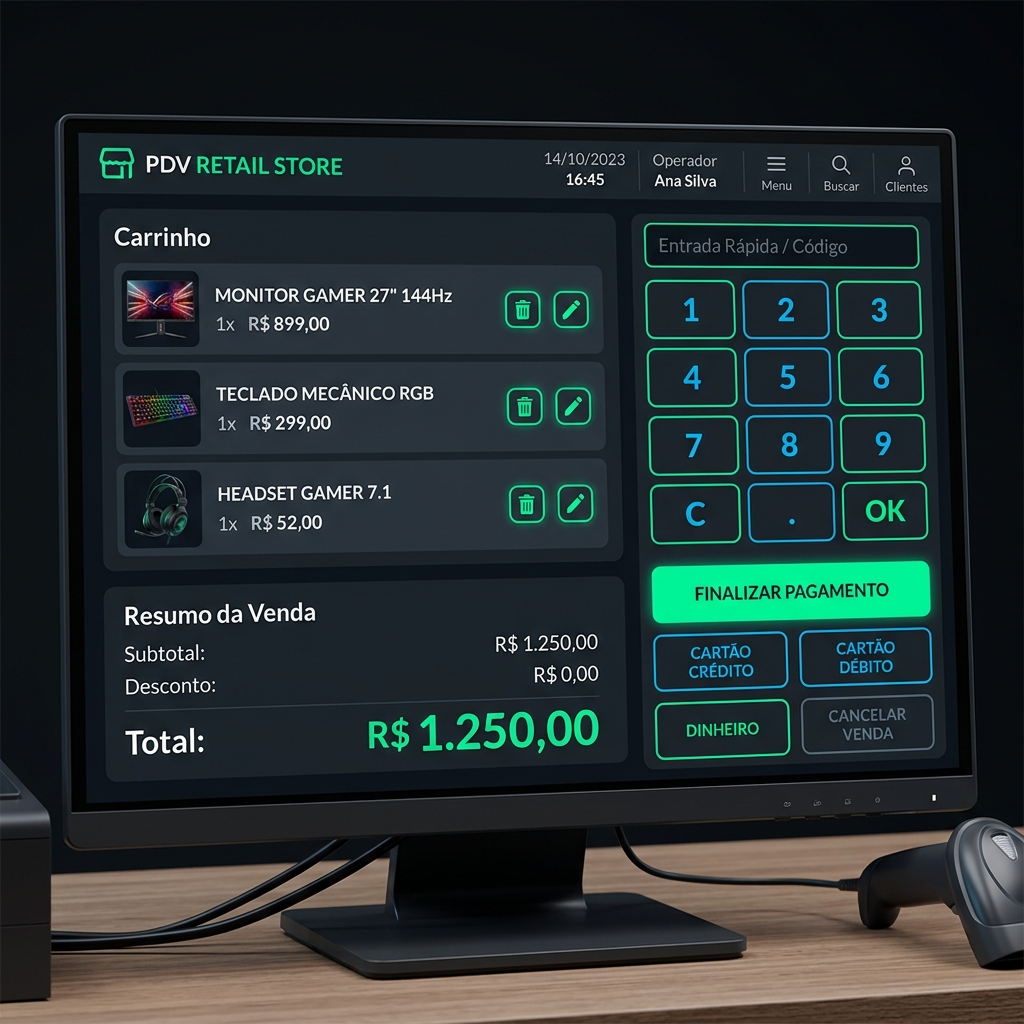
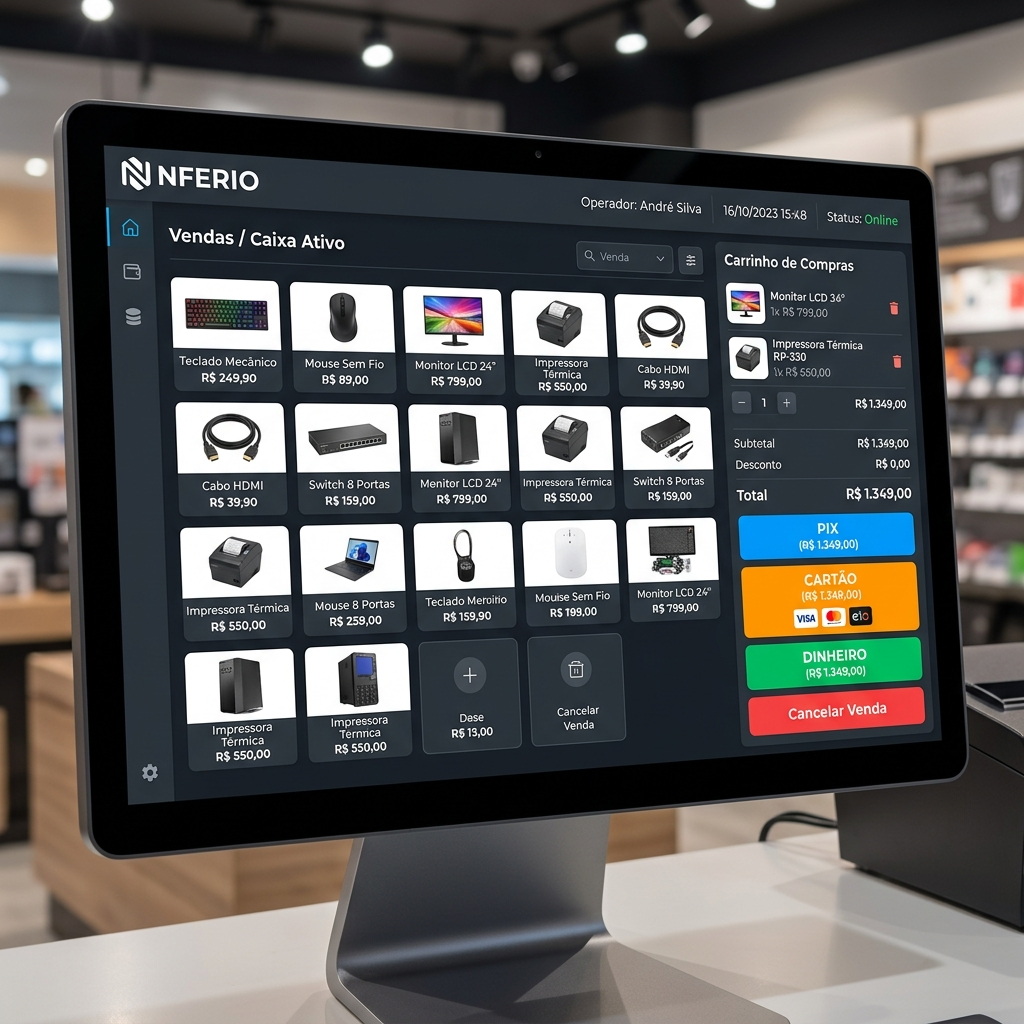
ajustesssss

diff --git a/frontend/src/pages/LandingPage.tsx b/frontend/src/pages/LandingPage.tsx
@@ -92,62 +92,61 @@ const LandingPage: React.FC = () => {
 
         <div className="market-grid" style={{ display: 'grid', gap: '4rem' }}>
           
-          {/* Feature 1: PDV */}
+          {/* Feature 1: Dashboard */}
           <div className="market-item" style={{ display: 'grid', gridTemplateColumns: '1.2fr 0.8fr', gap: '4rem', alignItems: 'center' }}>
             <div className="glass-panel" style={{ padding: '0.5rem', borderRadius: '24px', overflow: 'hidden', boxShadow: '0 25px 50px -12px rgba(0,0,0,0.5)' }}>
-              <img src="/previews/pdv.png" alt="PDV Moderno" style={{ width: '100%', borderRadius: '20px', display: 'block' }} />
+              <img src="/previews/dashboard.png" alt="Dashboard NFERIO" style={{ width: '100%', borderRadius: '20px', display: 'block' }} />
             </div>
             <div>
-              <div style={{ color: 'var(--accent-primary)', fontWeight: '700', marginBottom: '1rem', letterSpacing: '0.1em' }}>FRENTE DE CAIXA</div>
-              <h3 style={{ fontSize: '2.5rem', fontWeight: '800', marginBottom: '1.5rem' }}>PDV Blindado e Veloz</h3>
+              <div style={{ color: 'var(--accent-primary)', fontWeight: '700', marginBottom: '1rem', letterSpacing: '0.1em' }}>GESTÃO CENTRALIZADA</div>
+              <h3 style={{ fontSize: '2.5rem', fontWeight: '800', marginBottom: '1.5rem' }}>Painel de Controle Inteligente</h3>
               <p style={{ color: '#94a3b8', fontSize: '1.1rem', lineHeight: '1.8', marginBottom: '2rem' }}>
-                Venda em segundos com nossa interface otimizada. Sincronização em tempo real com estoque e financeiro, 
-                suporte a múltiplas formas de pagamento e emissão instantânea de NFC-e.
+                Monitore a saúde fiscal e financeira da sua empresa em tempo real. Com sensores integrados à ACBrLib e telemetria de servidor, 
+                você nunca fica no escuro.
               </p>
               <ul style={{ listStyle: 'none', padding: 0, display: 'flex', flexDirection: 'column', gap: '1rem', color: '#cbd5e1' }}>
-                <li style={{ display: 'flex', alignItems: 'center', gap: '12px' }}>✅ Teclas de atalho para produtividade</li>
-                <li style={{ display: 'flex', alignItems: 'center', gap: '12px' }}>✅ Funcionamento Offline com Sincronia</li>
-                <li style={{ display: 'flex', alignItems: 'center', gap: '12px' }}>✅ Integração total com balanças e scanners</li>
+                <li style={{ display: 'flex', alignItems: 'center', gap: '12px' }}>✅ Status do Motor Fiscal em tempo real</li>
+                <li style={{ display: 'flex', alignItems: 'center', gap: '12px' }}>✅ Telemetria de servidor Oracle Cloud</li>
+                <li style={{ display: 'flex', alignItems: 'center', gap: '12px' }}>✅ Resumo de faturamento e impostos automático</li>
               </ul>
             </div>
           </div>
 
-          {/* Feature 2: Clientes (Inverted) */}
+          {/* Feature 2: PDV (Inverted) */}
           <div className="market-item" style={{ display: 'grid', gridTemplateColumns: '0.8fr 1.2fr', gap: '4rem', alignItems: 'center' }}>
             <div>
-              <div style={{ color: '#10b981', fontWeight: '700', marginBottom: '1rem', letterSpacing: '0.1em' }}>CRM & GESTÃO</div>
-              <h3 style={{ fontSize: '2.5rem', fontWeight: '800', marginBottom: '1.5rem' }}>Cadastro de Clientes Inteligente</h3>
+              <div style={{ color: '#10b981', fontWeight: '700', marginBottom: '1rem', letterSpacing: '0.1em' }}>FRENTE DE CAIXA</div>
+              <h3 style={{ fontSize: '2.5rem', fontWeight: '800', marginBottom: '1.5rem' }}>PDV Ágil e Intuitivo</h3>
               <p style={{ color: '#94a3b8', fontSize: '1.1rem', lineHeight: '1.8', marginBottom: '2rem' }}>
-                Conheça seu cliente de verdade. Histórico de compras, limites de crédito automatizados e 
-                integração com consulta de CNPJ/CPF direto da nuvem.
+                Interface desenhada para alta performance no varejo. Emita NFC-e em segundos, gerencie múltiplos terminais 
+                e aceite todas as formas de pagamento com facilidade.
               </p>
               <ul style={{ listStyle: 'none', padding: 0, display: 'flex', flexDirection: 'column', gap: '1rem', color: '#cbd5e1' }}>
-                <li style={{ display: 'flex', alignItems: 'center', gap: '12px' }}>✅ Segmentação por perfil de compra</li>
-                <li style={{ display: 'flex', alignItems: 'center', gap: '12px' }}>✅ Controle de inadimplência em tempo real</li>
-                <li style={{ display: 'flex', alignItems: 'center', gap: '12px' }}>✅ Exportação de relatórios para marketing</li>
+                <li style={{ display: 'flex', alignItems: 'center', gap: '12px' }}>✅ Atalhos de teclado para vendas rápidas</li>
+                <li style={{ display: 'flex', alignItems: 'center', gap: '12px' }}>✅ Sincronização instantânea de estoque</li>
+                <li style={{ display: 'flex', alignItems: 'center', gap: '12px' }}>✅ Suporte a leitores de código de barras</li>
               </ul>
             </div>
             <div className="glass-panel" style={{ padding: '0.5rem', borderRadius: '24px', overflow: 'hidden', boxShadow: '0 25px 50px -12px rgba(0,0,0,0.5)' }}>
-              <img src="/previews/customers.png" alt="Gestão de Clientes" style={{ width: '100%', borderRadius: '20px', display: 'block' }} />
+              <img src="/previews/pdv.png" alt="PDV NFERIO" style={{ width: '100%', borderRadius: '20px', display: 'block' }} />
             </div>
           </div>
 
-          {/* Feature 3: Produtos */}
+          {/* Feature 3: Financeiro */}
           <div className="market-item" style={{ display: 'grid', gridTemplateColumns: '1.2fr 0.8fr', gap: '4rem', alignItems: 'center' }}>
             <div className="glass-panel" style={{ padding: '0.5rem', borderRadius: '24px', overflow: 'hidden', boxShadow: '0 25px 50px -12px rgba(0,0,0,0.5)' }}>
-              <img src="/previews/products.png" alt="Catálogo de Produtos" style={{ width: '100%', borderRadius: '20px', display: 'block' }} />
+              <img src="/previews/finance.png" alt="Financeiro NFERIO" style={{ width: '100%', borderRadius: '20px', display: 'block' }} />
             </div>
             <div>
-              <div style={{ color: '#f59e0b', fontWeight: '700', marginBottom: '1rem', letterSpacing: '0.1em' }}>ESTOQUE & COMPRAS</div>
-              <h3 style={{ fontSize: '2.5rem', fontWeight: '800', marginBottom: '1.5rem' }}>Estoque Global e Dinâmico</h3>
+              <div style={{ color: '#f59e0b', fontWeight: '700', marginBottom: '1rem', letterSpacing: '0.1em' }}>FINANCEIRO INTEGRADO</div>
+              <h3 style={{ fontSize: '2.5rem', fontWeight: '800', marginBottom: '1.5rem' }}>Controle de Fluxo de Caixa</h3>
               <p style={{ color: '#94a3b8', fontSize: '1.1rem', lineHeight: '1.8', marginBottom: '2rem' }}>
-                Nunca perca uma venda por falta de produto. Controle de grades, números de série, validade 
-                e sugestão automática de compras baseada no giro de estoque.
+                Gestão completa de contas a pagar e receber. Integrado automaticamente com suas vendas e entradas de mercadoria via XML.
               </p>
               <ul style={{ listStyle: 'none', padding: 0, display: 'flex', flexDirection: 'column', gap: '1rem', color: '#cbd5e1' }}>
-                <li style={{ display: 'flex', alignItems: 'center', gap: '12px' }}>✅ Leitura de XML de entrada automatizada</li>
-                <li style={{ display: 'flex', alignItems: 'center', gap: '12px' }}>✅ Ajuste de preços em massa</li>
-                <li style={{ display: 'flex', alignItems: 'center', gap: '12px' }}>✅ Relatórios de Curva ABC de produtos</li>
+                <li style={{ display: 'flex', alignItems: 'center', gap: '12px' }}>✅ Geração automática de títulos a receber</li>
+                <li style={{ display: 'flex', alignItems: 'center', gap: '12px' }}>✅ Alertas de inadimplência e vencimentos</li>
+                <li style={{ display: 'flex', alignItems: 'center', gap: '12px' }}>✅ DRE e relatórios gerenciais avançados</li>
               </ul>
             </div>
           </div>
